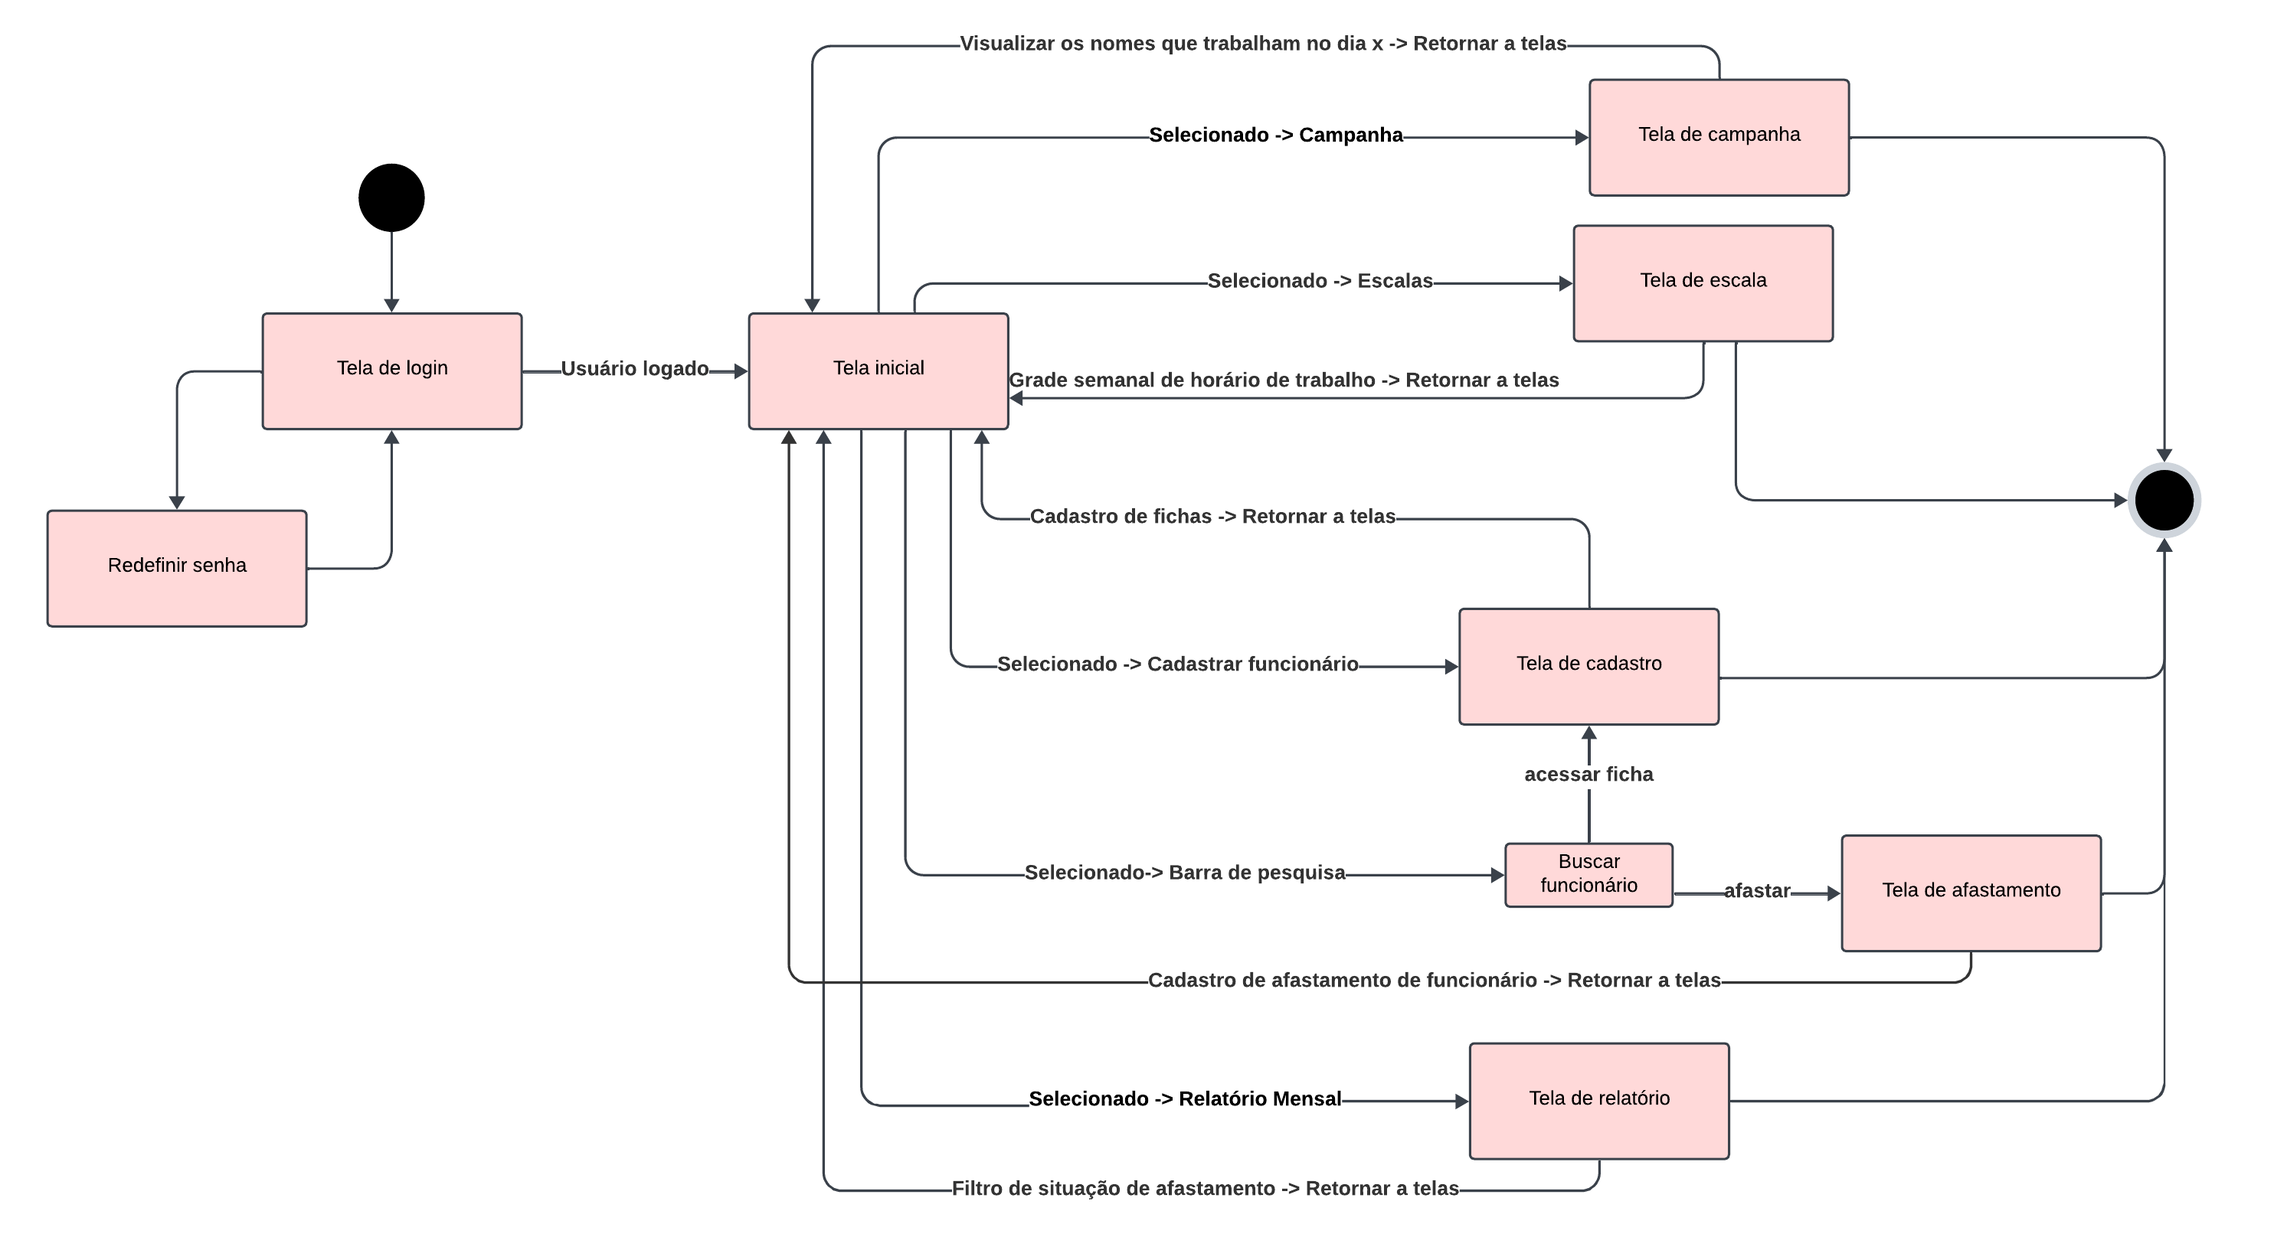
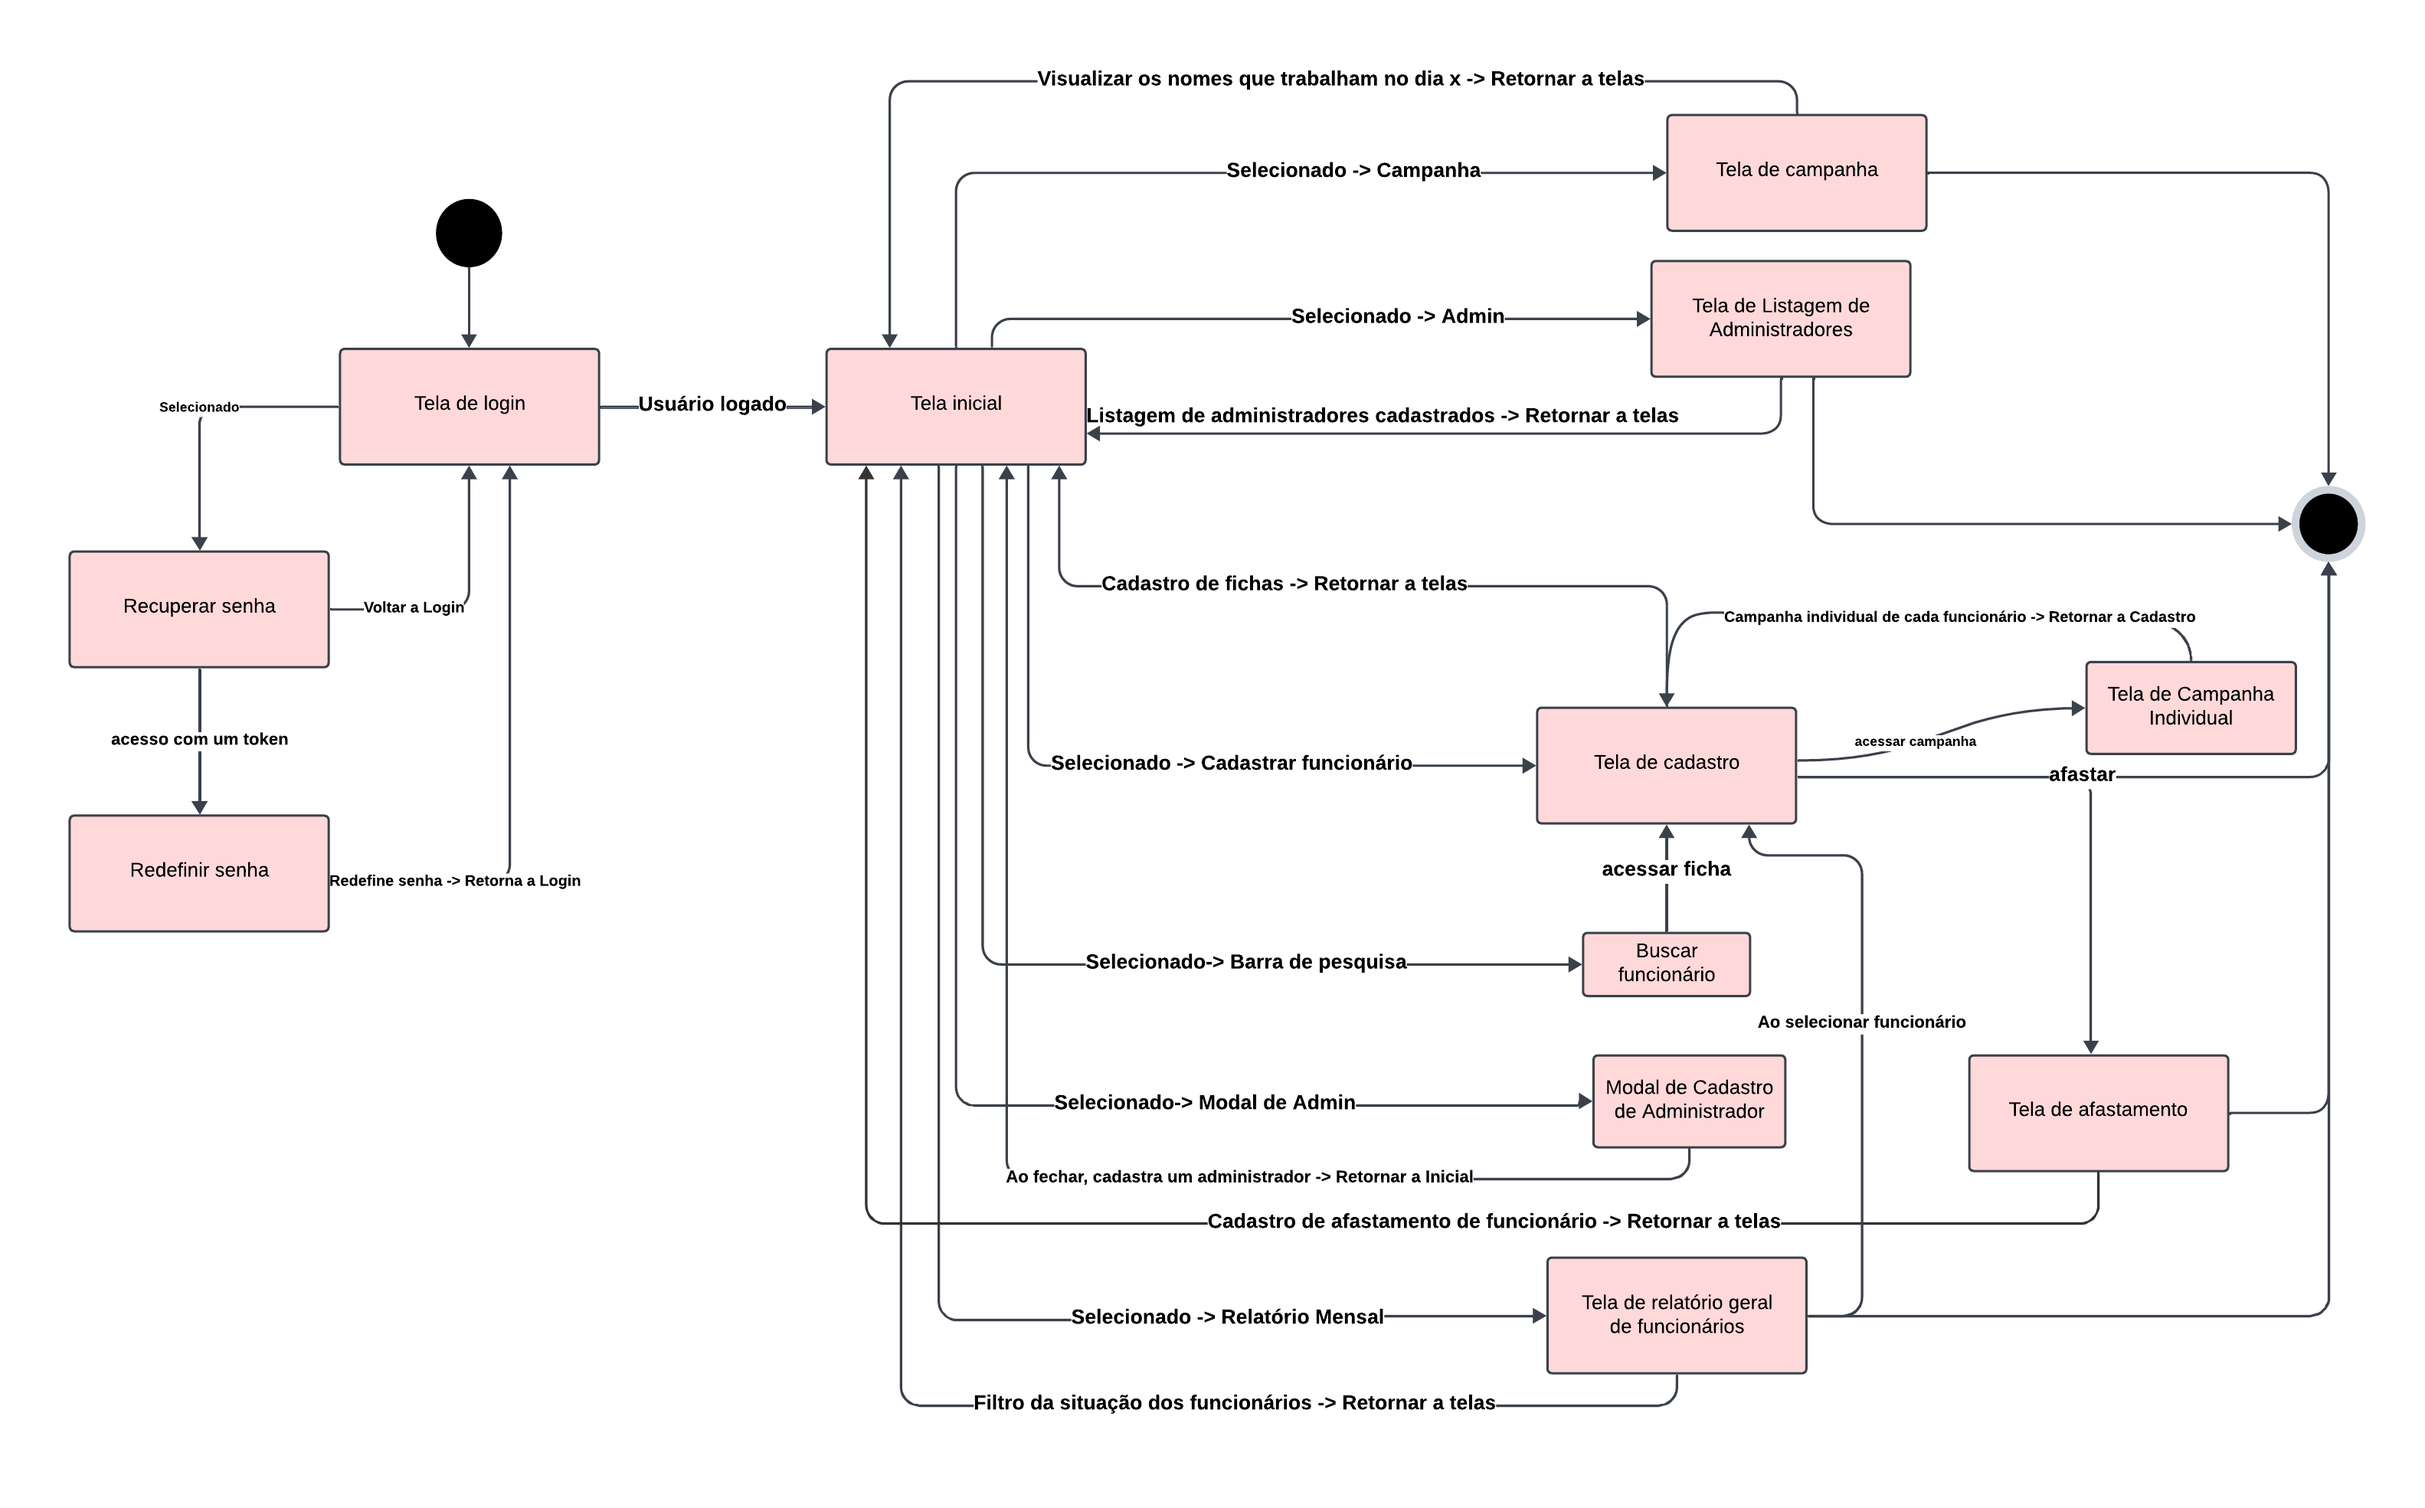
docs: documentada arquitetura do AGIS

Changed region(s): [[0.0, 0.0309, 0.9967, 0.9901], [0.1557, 0.1238, 0.218, 0.1856], [0.7475, 0.3403, 0.7786, 0.3713]]

diff --git a/Docs/docs/arquitetura/diagrama-de-classes.md b/Docs/docs/arquitetura/diagrama-de-classes.md
@@ -14,10 +14,12 @@ Esse diagrama de classes representa um modelo de dados para um sistema de gerenc
 
 ## Detalhamento das Classes
 
-### Classe ADM
+### Classe Administrador
 - **Atributos**:
-  - nome de usuário
-  - senha para login
+  - login
+  - senha 
+  - privilegios
+  - email
 - **Métodos**:
   - busca
   - criação
@@ -31,7 +33,7 @@ Esse diagrama de classes representa um modelo de dados para um sistema de gerenc
 
 ### Classe Funcionário
 - **Atributos**:
-  - diversos atributos pessoais e profissionais
+  - diversos atributos pessoais e profissionais e último editor
 - **Relações**:
   - **Endereço**: cada funcionário tem um endereço
   - **FichaGerencial**: cada funcionário tem uma ficha gerencial
@@ -64,10 +66,19 @@ Esse diagrama de classes representa um modelo de dados para um sistema de gerenc
   - CNH (Carteira Nacional de Habilitação) com prontuário
   - categoria e validade
 
+### Classe Afastamento
+- **Atributos**:
+  - motivo
+  - situacao
+  - datas de início e término
+  - ano de referência
+  - observacoes
+
 ## Relações entre as Classes
 - A classe Funcionário tem uma associação com a classe Endereço, indicando que cada funcionário tem um endereço.
 - A classe Funcionário tem uma associação com a classe FichaGerencial, indicando que cada funcionário tem uma ficha gerencial.
 - A classe Funcionário tem uma associação com a classe Documentação, indicando que cada funcionário possui documentos associados.
+- A classe Funcionário tem uma associação com a classe Afastamento, indicando que cada funcionário possui afastamentos associados.
 
 Esse diagrama de classes fornece uma visão estruturada do sistema, especificando como os dados sobre funcionários são organizados e manipulados.
 
@@ -75,6 +86,6 @@ Esse diagrama de classes fornece uma visão estruturada do sistema, especificand
 
 ![Representação do Diagrama de Estados.](../../static/img/DiagramadePacotes.png)
 
-*Figura 5: Desenho esquemático do diagrama de pacotes*
+*Figura 6: Desenho esquemático do diagrama de pacotes*
 
 Quanto ao diagrama de pacotes, apresenta os seguintes componentes principais: a Interface de Usuário, responsável pela interação direta com os usuários, e a Lógica de Apresentação, que manipula e transforma dados para a interface; os Serviços de Negócio, que implementam as regras de negócios e processos centrais do sistema; os Repositórios de Dados, que gerenciam operações de persistência e recuperação de dados armazenados; e o Banco de Dados MongoDB, que armazena os dados de maneira persistente utilizando um banco de dados NoSQL.

diff --git a/Docs/docs/arquitetura/diagrama-de-estados.md b/Docs/docs/arquitetura/diagrama-de-estados.md
@@ -12,14 +12,16 @@ sidebar_label: "Diagrama de Estados"
 
 O diagrama de estados é aplicado para demonstrar o comportamento geral do sistema, mostrando os estados e transições do funcionamento assim como quais eventos levam a transição de um estado para outro do AGIS. Assim, é possível compreender o funcionamento da aplicação desktop conforme é utilizado. A aplicação começa pela:
 
-1. **Tela de login**: Para ter acesso ao sistema, os usuários terão que fazer login. Os usuários são divididos em Administrador e Usuário, sendo o primeiro capaz de cadastrar funcionários e gestar suas escalas enquanto o segundo apenas lê. Caso o usuário esqueça a senha, o mesmo será direcionado para uma tela de redefinição de senha.
+1. **Tela de login**: Para ter acesso ao sistema, os usuários terão que fazer login. Os usuários são divididos em Administrador Editor e Administrador Leitor, sendo o primeiro capaz de cadastrar funcionários e gestar suas campanhas enquanto o segundo apenas lê. Caso o administrador esqueça a senha, o mesmo será direcionado para uma tela de redefinição de senha.
 
 2. **Tela Inicial**: Caso o usuário efetue o login com sucesso, ele terá acesso à tela inicial, que oferece acesso a todas as outras telas do sistema, sendo elas:
-    - **Tela de Escala**
+    - **Tela de Listagem de Administrador**
     - **Tela de Campanha**
+    - **Tela de Campanha Individual**
     - **Tela de Cadastro**
     - **Tela de Afastamento**
-    - **Tela de Relatório**
+    - **Tela de Relatório Mensal**
+    - **Modal de Cadastro de Administrador**
     
 Além disso, na Tela Inicial, será possível realizar buscas de todos os funcionários cadastrados, permitindo o acesso às suas fichas e ao cadastro de afastamentos. Após acessar os serviços desejados, é possível voltar à Tela Inicial, acessar outras telas e, também, sair do programa.
 

diff --git a/Docs/docs/arquitetura/diagrama-de-atividades.md b/Docs/docs/arquitetura/diagrama-de-atividades.md
@@ -26,11 +26,11 @@ Este diagrama de atividades representa um fluxo de trabalho para um sistema de g
     - **Gerar Campanha**: Gera uma tabela com todos os funcionários aptos a trabalhar no dia/mês/ano.
     - **Afastar Funcionários**: Afastar funcionários por férias, abono, ou outros motivos de afastamento.
     - **Cadastrar/Editar/Excluir/Visualizar Ficha de Funcionário**: Gerenciar os dados dos funcionários.
+    - **Cadastrar/Editar/Excluir/Visualizar Administrador**: Gerenciar os dados dos administradores.
     - **Listagem de Funcionários**: Exibir uma lista de todos os funcionários.
 
 4. **Filtragem e Relatórios**:
     - Na Listagem de Funcionários, o usuário pode filtrar por:
-        - Cursos concluídos,
         - Afastamentos,
         - Funcionários aptos a trabalhar.
     - Também pode gerar Relatório com base nas informações filtradas.

diff --git a/Docs/docs/arquitetura/visao-de-implementacao.md b/Docs/docs/arquitetura/visao-de-implementacao.md
@@ -5,9 +5,9 @@ sidebar_label: "Visão de Implementação"
 
 ## Visão de Implementação
 
-![Representação da Visão de Implementação.](../../static/img/DiagramadeEstados.png)
+![Representação da Visão de Implementação.](../../static/img/VisaodeImplementacao.png)
 
-*Figura 3: Desenho esquemático da visão de implementação*
+*Figura 7: Desenho esquemático da visão de implementação*
 
 1. **Usuário**
     - Representado por um ícone de pessoa.
